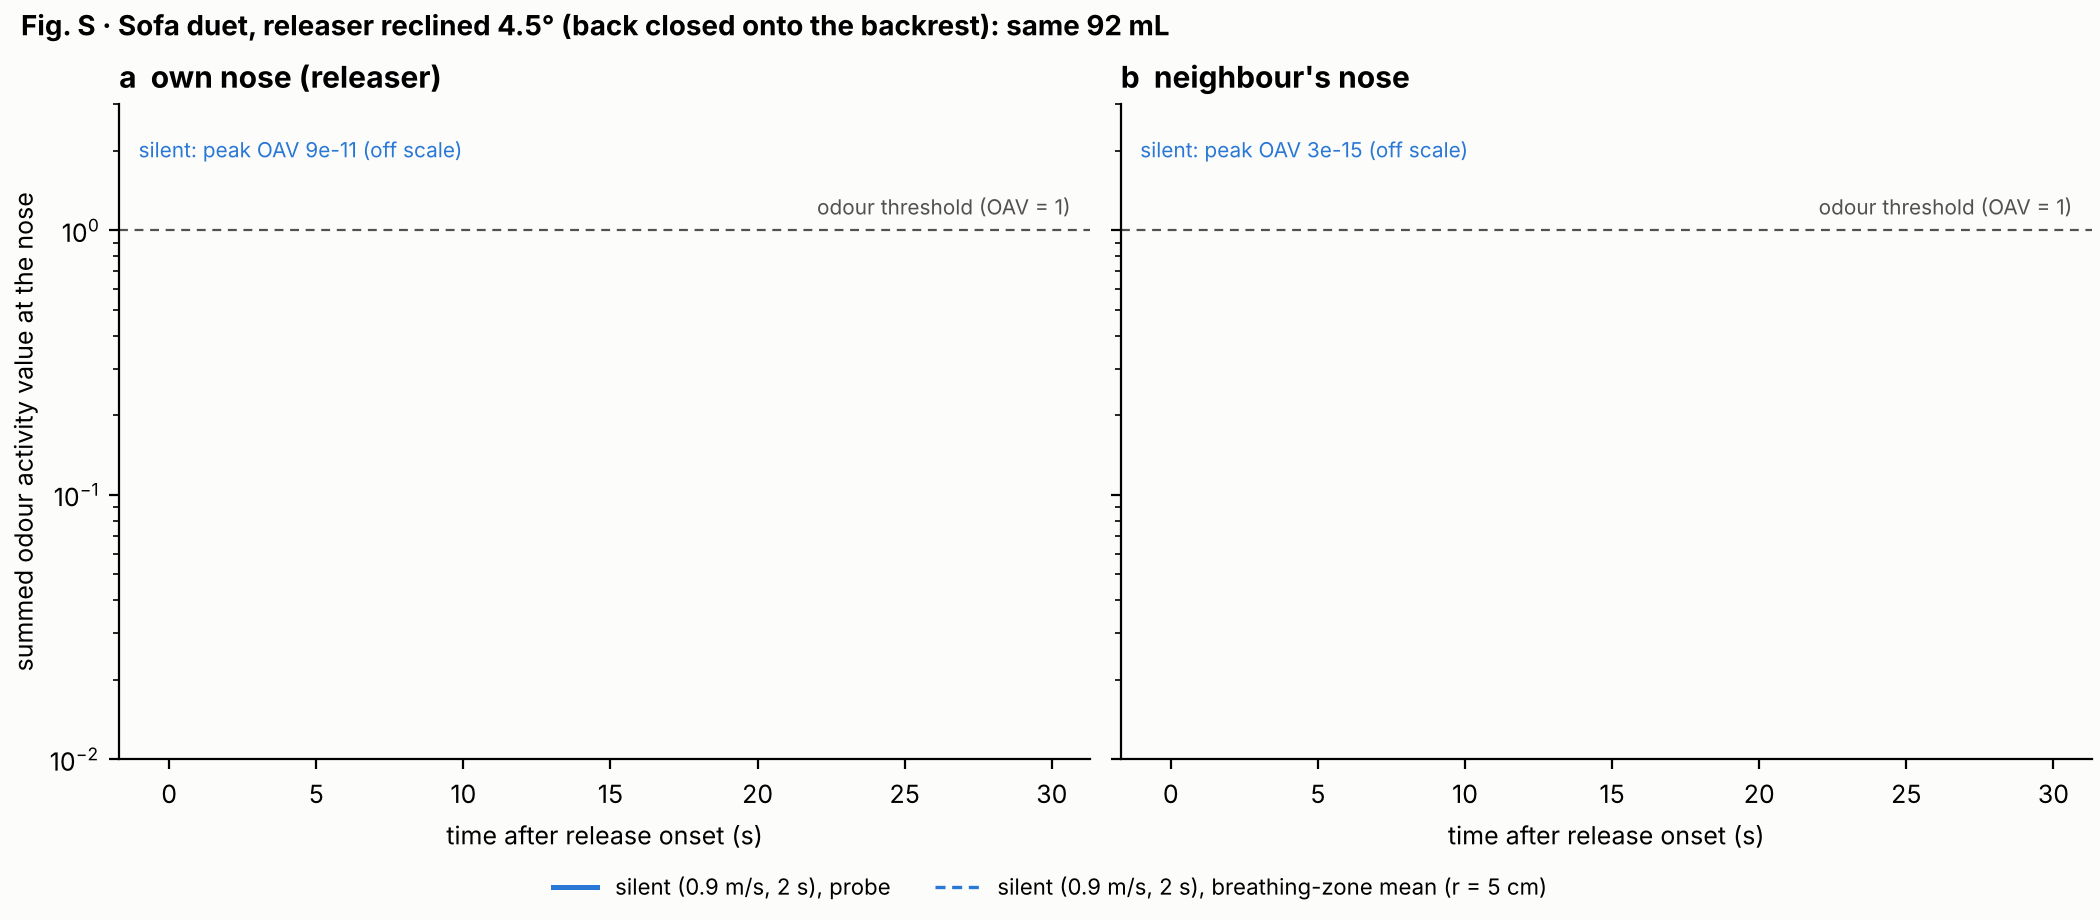
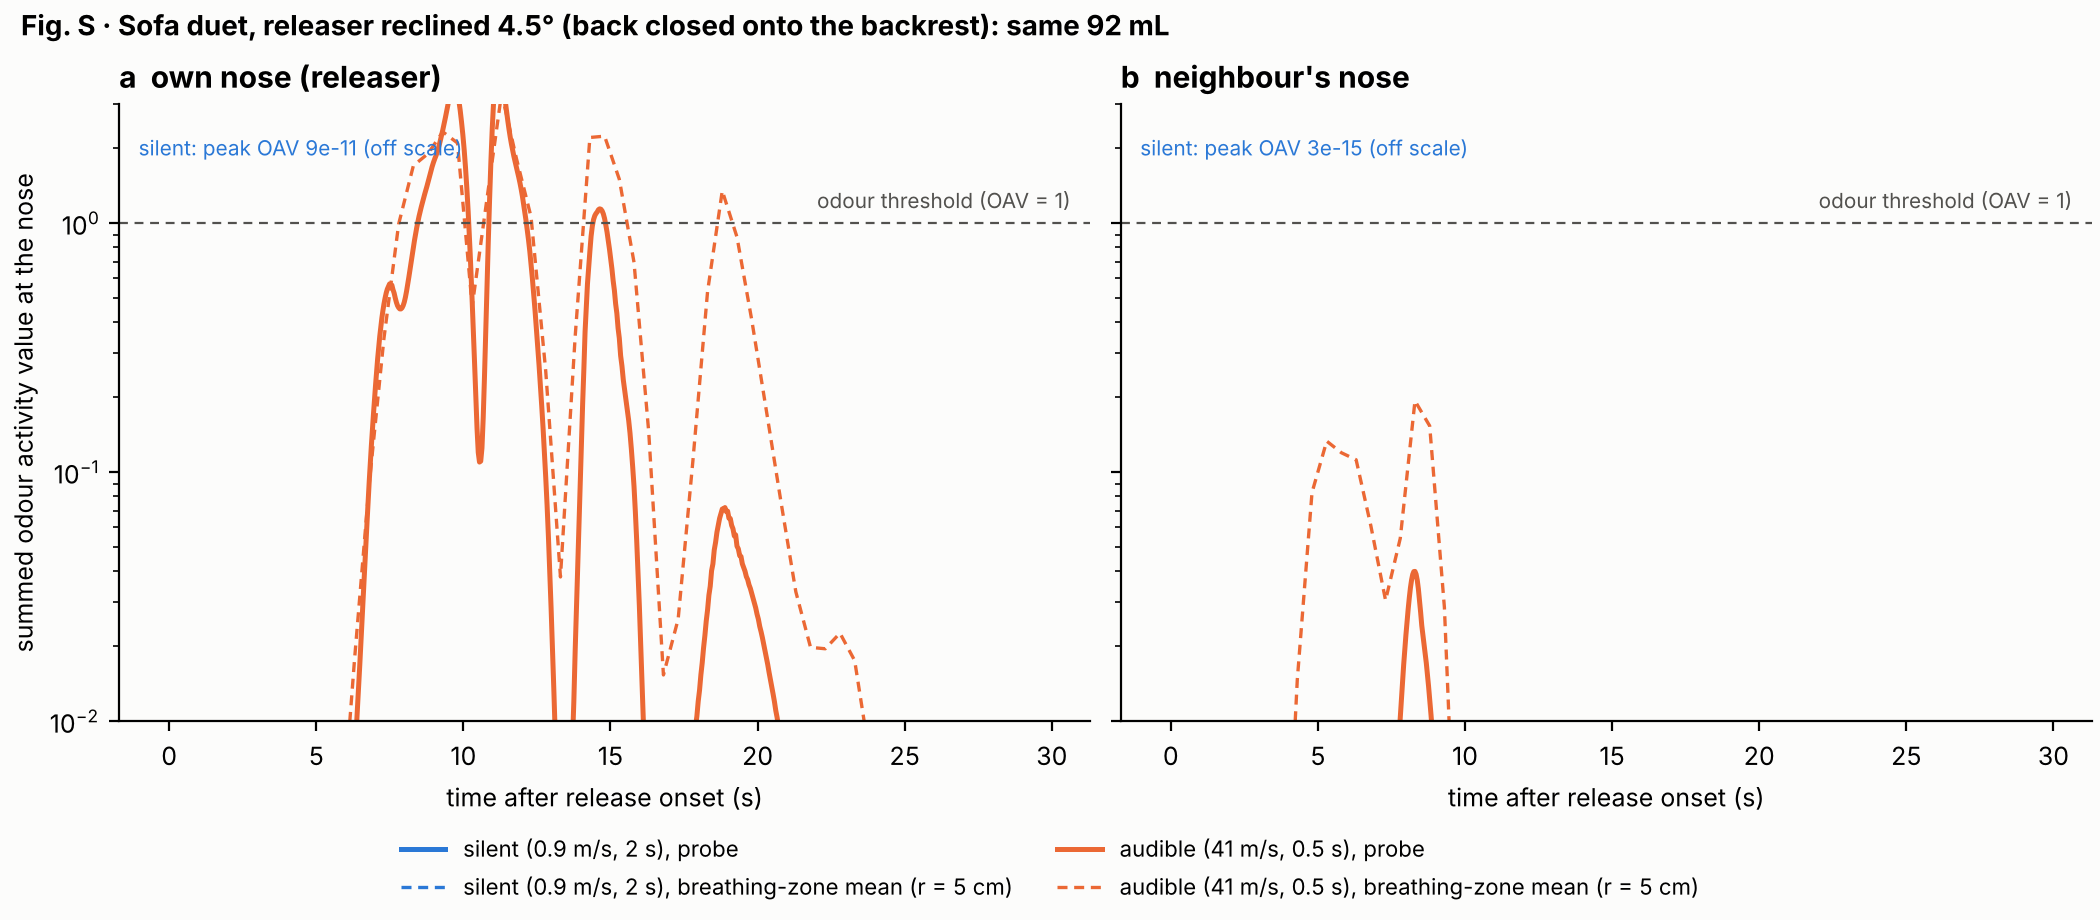
M4: reclined-posture sensitivity complete; chimney result is robust
Releaser reclined 4.5 deg (back closed onto the backrest above 0.85 m):
the silent release leaves the seat wedge sideways and still rises behind
the head; no breathing-zone dose at either nose. Audible now exceeds
threshold at the releaser's own nose (OAV 2-4). Breathing-zone R ~ 1e-11
to 1e-14 in both postures. fig_sofa_planes.py takes --recline.

Claude-Session: https://claude.ai/code/session_0131NedNevRvPP7dQji5Ca7Y

diff --git a/cfd/cases/sofa/fig_sofa_planes.py b/cfd/cases/sofa/fig_sofa_planes.py
@@ -3,8 +3,11 @@
 Reads postProcessing/planes/<t>/midFarter.xy (raw cut-plane, cell values: x y z s T Ux Uy Uz) from
 cfd/runs/sofa_{silent,audible}; colour = log10 of the summed odour activity value (OAV, gate0.model.oav), solid
 contour = odour threshold (OAV = 1). Times are after release onset (t = 0.2 s in the branch cases).
-Usage: python3 fig_sofa_planes.py [runs_dir] [t1 t2 ...]
+With --recline DEG it reads sofa_rec<DEG>_{silent,audible}, draws the reclined releaser and writes
+figures/figS_sofa_rec<DEG>_planes.png.
+Usage: python3 fig_sofa_planes.py [runs_dir] [--recline DEG] [--times t1 t2 ...]
 """
+import argparse
 import sys
 from pathlib import Path
 
@@ -39,15 +42,16 @@ def load(case: Path, t: float):
     return float(best.name) - T_REL, a[:, 0], a[:, 2], a[:, 3]
 
 
-def silhouette(ax):
+def silhouette(ax, recline=0.0):
     ax.add_patch(Rectangle((-0.25, 0.0), 0.55, manikin.SEAT_Z, fc="#c3c2b7", ec="none", zorder=3))
     ax.add_patch(Rectangle((-0.42, 0.0), 0.21, 0.95, fc="#c3c2b7", ec="none", zorder=3))
-    for a, b, c in manikin.body():
+    for a, b, c in manikin.body(recline_deg=recline):
         ax.add_patch(Polygon([(a[0], a[2]), (b[0], b[2]), (c[0], c[2])], closed=True, fc="#9b9a95", ec="#9b9a95",
                              lw=0.3, alpha=0.75, zorder=4))
 
 
-def main(runs: Path, times):
+def main(runs: Path, times, recline: float = 0.0):
+    prefix = "sofa" if not recline else f"sofa_rec{recline:g}"
     plt.rcParams.update({"figure.facecolor": SURFACE, "axes.facecolor": SURFACE, "font.size": 8.5,
                          "text.color": INK, "axes.labelcolor": INK2, "xtick.color": INK2, "ytick.color": INK2})
     fig, axes = plt.subplots(2, len(times), figsize=(2.6 * len(times) + 1.2, 6.4), sharex=True, sharey=True,
@@ -55,7 +59,7 @@ def main(runs: Path, times):
     levels = np.linspace(-1, 4, 21)
     cf = None
     for r, mode in enumerate(("silent", "audible")):
-        case = runs / f"sofa_{mode}"
+        case = runs / f"{prefix}_{mode}"
         for c, t in enumerate(times):
             ax = axes[r, c]
             if not (case / "postProcessing/planes").exists():
@@ -68,8 +72,8 @@ def main(runs: Path, times):
             tri.set_mask(np.max(np.linalg.norm(pts - np.roll(pts, 1, axis=1), axis=2), axis=1) > 0.12)
             cf = ax.tricontourf(tri, np.clip(lo, levels[0], levels[-1]), levels=levels, cmap=SEQ, zorder=1)
             ax.tricontour(tri, lo, levels=[0.0], colors=[INK], linewidths=0.9, zorder=2)
-            silhouette(ax)
-            nose = manikin.NOSE
+            silhouette(ax, recline)
+            nose = manikin.nose_tip(recline)
             ax.plot(nose[0] + 0.012, nose[2], marker=">", ms=5, color=INK, zorder=6)
             ax.set_xlim(-0.6, 0.9); ax.set_ylim(0.0, 2.0); ax.set_aspect("equal")
             for sp in ("top", "right"):
@@ -86,15 +90,19 @@ def main(runs: Path, times):
     cb.ax.text(2.6, 0.0, "threshold", transform=cb.ax.get_yaxis_transform(), va="center", fontsize=7.5)
     cb.ax.text(2.6, 3.6, "plausible\ndeniability\nexpires", transform=cb.ax.get_yaxis_transform(), va="center",
                fontsize=7.5, color=INK2)
-    fig.suptitle("Fig. 6 · Sofa duet, releaser's mid-plane: the same 92 mL, silent (2 s, 0.9 m/s) vs audible\n"
+    head = "Fig. 6 · Sofa duet" if not recline else f"Fig. S · Sofa duet, releaser reclined {recline:g}°"
+    fig.suptitle(f"{head}, releaser's mid-plane: the same 92 mL, silent (2 s, 0.9 m/s) vs audible\n"
                  "(0.5 s, 41 m/s). Black contour: odour threshold (OAV = 1).", x=0.01, ha="left", fontsize=9.5,
                  fontweight="bold")
-    out = ROOT / "figures/fig6_sofa_duet_planes.png"
+    out = ROOT / ("figures/fig6_sofa_duet_planes.png" if not recline else f"figures/figS_sofa_rec{recline:g}_planes.png")
     fig.savefig(out, dpi=200)
     print("wrote", out)
 
 
 if __name__ == "__main__":
-    runs = Path(sys.argv[1]) if len(sys.argv) > 1 else ROOT / "cfd/runs"
-    times = [float(x) for x in sys.argv[2:]] or [1.0, 3.0, 8.0, 15.0]
-    main(runs, times)
+    ap = argparse.ArgumentParser()
+    ap.add_argument("runs", nargs="?", default=str(ROOT / "cfd/runs"))
+    ap.add_argument("--recline", type=float, default=0.0)
+    ap.add_argument("--times", type=float, nargs="*", default=[1.0, 3.0, 8.0, 15.0])
+    a = ap.parse_args()
+    main(Path(a.runs), a.times, a.recline)

diff --git a/manuscript/preprint/sections/results.tex b/manuscript/preprint/sections/results.tex
@@ -23,7 +23,10 @@
 
 \subsection{A sofa}
 \gap{Prose.} The backrest chimney carries the silent release over the releaser's head; the jet escapes it and reaches the
-neighbour \src{cfd/cases/sofa/m4\_report.md}. \gap{posture sensitivity (reclined, 4.5\,\textdegree)}
+neighbour \src{cfd/cases/sofa/m4\_report.md}. With the releaser reclined by 4.5\,\textdegree, which closes the back
+onto the backrest, the silent release leaves the seat-level wedge sideways and still rises behind the head. No
+breathing zone receives a detectable dose. The audible jet now exceeds threshold at the releaser's own nose (OAV 2--4).
+In both postures the breathing-zone ratio is $R \approx 10^{-11}$--$10^{-14}$ \src{cfd/cases/sofa/results\_rec4.5.json}.
 \begin{figure}
 \includegraphics[width=\textwidth]{fig5_sofa_duet_noses.png}
 \caption{\gap{caption} Sofa duet: nose time series.}

diff --git a/cfd/cases/sofa/m4_report.md b/cfd/cases/sofa/m4_report.md
@@ -67,8 +67,8 @@
 ## Caveats (first pass; not yet publishable numbers)
 
 1. **Posture.** The upright manikin leaves a ~3 cm channel between back and backrest, and that channel *is* the silent
-   pathway. A reclined occupant whose back touches the cushion would close it. This is the dominant sensitivity and
-   needs a second geometry.
+   pathway. A reclined occupant whose back touches the cushion would close it. This was the dominant sensitivity; a
+   second geometry is now run (see "Posture sensitivity" below): the outcome holds.
 2. **RANS mean field.** RANS predicts the ensemble mean. A real puff meanders, and instantaneous peaks at a nose can
    exceed the mean by an order of magnitude (intermittency). Sub-threshold mean OAVs of 0.5–0.7 (audible) are
    therefore consistent with a detectable whiff. Silent values of 10⁻¹¹ are not, because the mean cloud is centimetres
@@ -78,3 +78,55 @@
 4. **Validation bias.** The coarse-mesh CBL is about 40 % too fast (M3b), so the chimney may lift the cloud faster than
    reality.
 5. **Single realisation.** One release volume, one position and one jet direction.
+
+## Posture sensitivity: releaser reclined 4.5° (2026-10-16)
+
+*Code: `make_case.py --recline 4.5`, `run_sofa.sh <runs> 4.5`, `analyze_sofa.py --recline 4.5`,
+`fig_sofa_planes.py --recline 4.5` · numbers: `results_rec4.5.json` · figures: `figures/figS_sofa_rec4.5_noses.png`,
+`figures/figS_sofa_rec4.5_planes.png`*
+
+**Set-up.**
+- The releaser's upper body (torso, head, arms) is rotated 4.5° backwards about the hip. Pelvis, legs, release point
+  and neighbour are unchanged.
+- The back now meets the backrest from z ≈ 0.85 m up to its top at 0.95 m (≈ 8 mm overlap). This closes the top of
+  the chimney, while the 3 cm gap at seat level stays open.
+- The releaser's nose moves back 6 cm and the probes move with it.
+- Same mesh recipe (723 k cells). checkMesh flags 4 highly skewed faces (max skewness 5.0, against 2.8 upright),
+  presumably at the back–backrest contact. The run was stable: no FATAL, both branches reached 30 s.
+
+**Results** (peak OAV within 30 s; worst breath = max over breathing phase):
+
+| receptor | posture | silent | audible | R (silent / audible) |
+|---|---|---|---|---|
+| own nose: breathing-zone peak | upright | 5 × 10⁻¹¹ | 0.46 | 1 × 10⁻¹⁰ |
+| | reclined | 9 × 10⁻¹¹ | **3.3** | 3 × 10⁻¹¹ |
+| own nose: worst breath | upright | 4 × 10⁻¹³ | 0.37 | 1 × 10⁻¹² |
+| | reclined | 7 × 10⁻¹² | **2.3** | 3 × 10⁻¹² |
+| neighbour: breathing-zone peak | upright | 3 × 10⁻¹⁴ | 0.63 | 5 × 10⁻¹⁴ |
+| | reclined | 3 × 10⁻¹⁵ | 0.19 | 2 × 10⁻¹⁴ |
+| own head ring (25 cm) | upright | 5 800 (5.3 s) | 200 | 28 |
+| | reclined | 3 100 (5.3 s) | 200 | 16 |
+| neighbour's head ring | upright | 1 × 10⁻⁶ | 370 | 3 × 10⁻⁹ |
+| | reclined | 4 × 10⁻⁵ | 630 | 6 × 10⁻⁸ |
+
+**Pathways.**
+- **Silent.** Closing the top of the chimney does not stop it.
+  - The release pools in the seat-level wedge for ~3 s.
+  - It then leaves the wedge *sideways* at shoulder level. At nose height the cloud first appears behind the head at
+    x ≈ −0.19 m, 0.13 m inboard of the releaser's mid-plane, at 4.8 s; it then appears outboard (0.13 m) at 5.3 s.
+  - It rises behind and over the head to the ceiling.
+  - Neither breathing zone receives a detectable dose; values stay 10⁻¹¹ or below.
+- **Audible.** The jet again escapes the wedge. In the reclined posture a filament wraps around the releaser's face
+  (Fig. S, 7.8 s and 14.8 s), so the releaser's **own** breathing zone exceeds threshold (OAV 2–4). The neighbour
+  stays sub-threshold (0.2).
+
+**Conclusion.** In both postures the silent release is the one that misses every nose, by ten or more orders of
+magnitude in the RANS mean. The chimney finding is not an artefact of the 3 cm back gap: the body's convective
+boundary layer captures a low-momentum release wherever it leaks out. Reclining makes the audible release *more*
+noticeable to the releaser, not less.
+
+**Remaining sensitivities:**
+- a 120 s window (room-scale mixing, which equalises both modes towards M/V);
+- RANS intermittency;
+- a forward-leaning posture;
+- a different release direction.

diff --git a/NOTES.md b/NOTES.md
@@ -450,3 +450,15 @@ The abstract-only pass was wrong or overstated in several places:
 - TeX Live installed in the container: texlive-latex-recommended/extra, -publishers (achemso), -science (mhchem,
   siunitx), latexmk. The build is clean (13 pages, 38 references cited).
 - New reference: forster2018 (full text read by the literature agent; OpenAlex metadata).
+
+### M4 posture sensitivity: reclined 4.5° (2026-10-16; `cfd/cases/sofa/m4_report.md`)
+- The releaser's upper body is reclined about the hip; the back closes onto the backrest above 0.85 m.
+- 4 highly skewed faces at the contact; the run is stable.
+- The pipeline is detached with setsid (background tool runs are capped at 2 h); the audible branch was re-run once.
+- Silent: no breathing-zone dose at either nose (≤ 10⁻¹⁰ OAV). The cloud leaves the seat wedge sideways at shoulder
+  level and rises behind the head (head ring 3 100).
+- Audible: the releaser's own breathing zone is now above threshold (OAV 2–4, a face-wrapping filament); the
+  neighbour is at 0.2.
+- Breathing-zone R at both noses ≈ 10⁻¹¹–10⁻¹⁴, as upright. **The chimney result is robust to closing the back gap.**
+- Scripts take `--recline`. Upright results are reproduced exactly (same triangle set; `results.json` identical
+  apart from the new `recline_deg` key).

diff --git a/manuscript/preprint/outline.md b/manuscript/preprint/outline.md
@@ -119,8 +119,10 @@ comparisons, because a silent passage only enters memory if it stank (Berkson se
   - valve parameters explain < 0.5 % each.
 - **4.5 The sofa** (Figs 5–6; M4 report). The backrest chimney carries the silent release over the head; the jet
   escapes and reaches the neighbour; breathing-zone R ≈ 10⁻¹⁰–10⁻¹⁴.
-  - **Posture sensitivity:** reclined variant (back closed onto the backrest above 0.85 m) running 2026-10-16.
-    **GAP:** results.
+  - **Posture sensitivity (done):** reclined 4.5°, with the back closed onto the backrest above 0.85 m.
+    - Silent still reaches no breathing zone; it leaves the wedge sideways and rises behind the head.
+    - Audible now exceeds threshold at the releaser's own nose (OAV 2–4).
+    - Breathing-zone R ≈ 10⁻¹¹–10⁻¹⁴ in both postures (`cfd/cases/sofa/m4_report.md`).
 - **4.6 Perception** (Figs 7, 11): median difference 2.7 % at the neighbour, below the JND. γ is an auxiliary
   hypothesis (0–3 %, sign unknown).
 - **4.7 Composition counter-argument.** Suarez 1997 Table 3: no volume–sulfur-concentration link; sulfur mass rises
